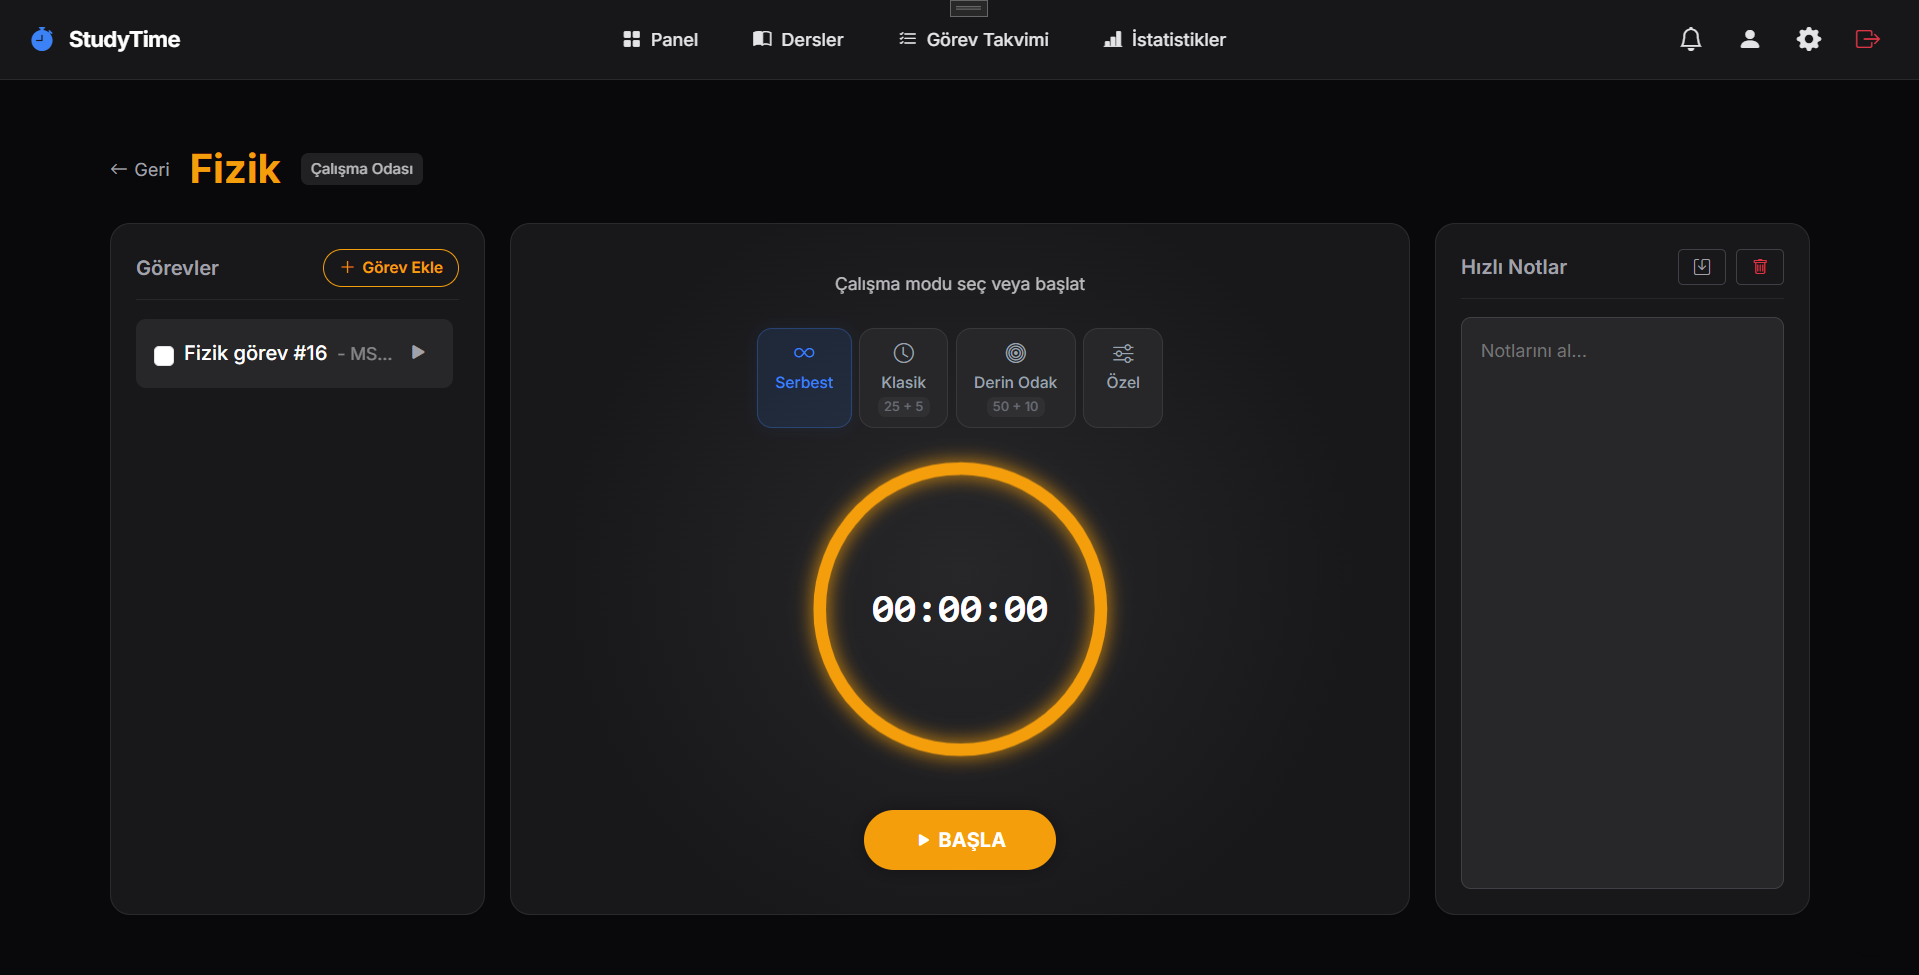
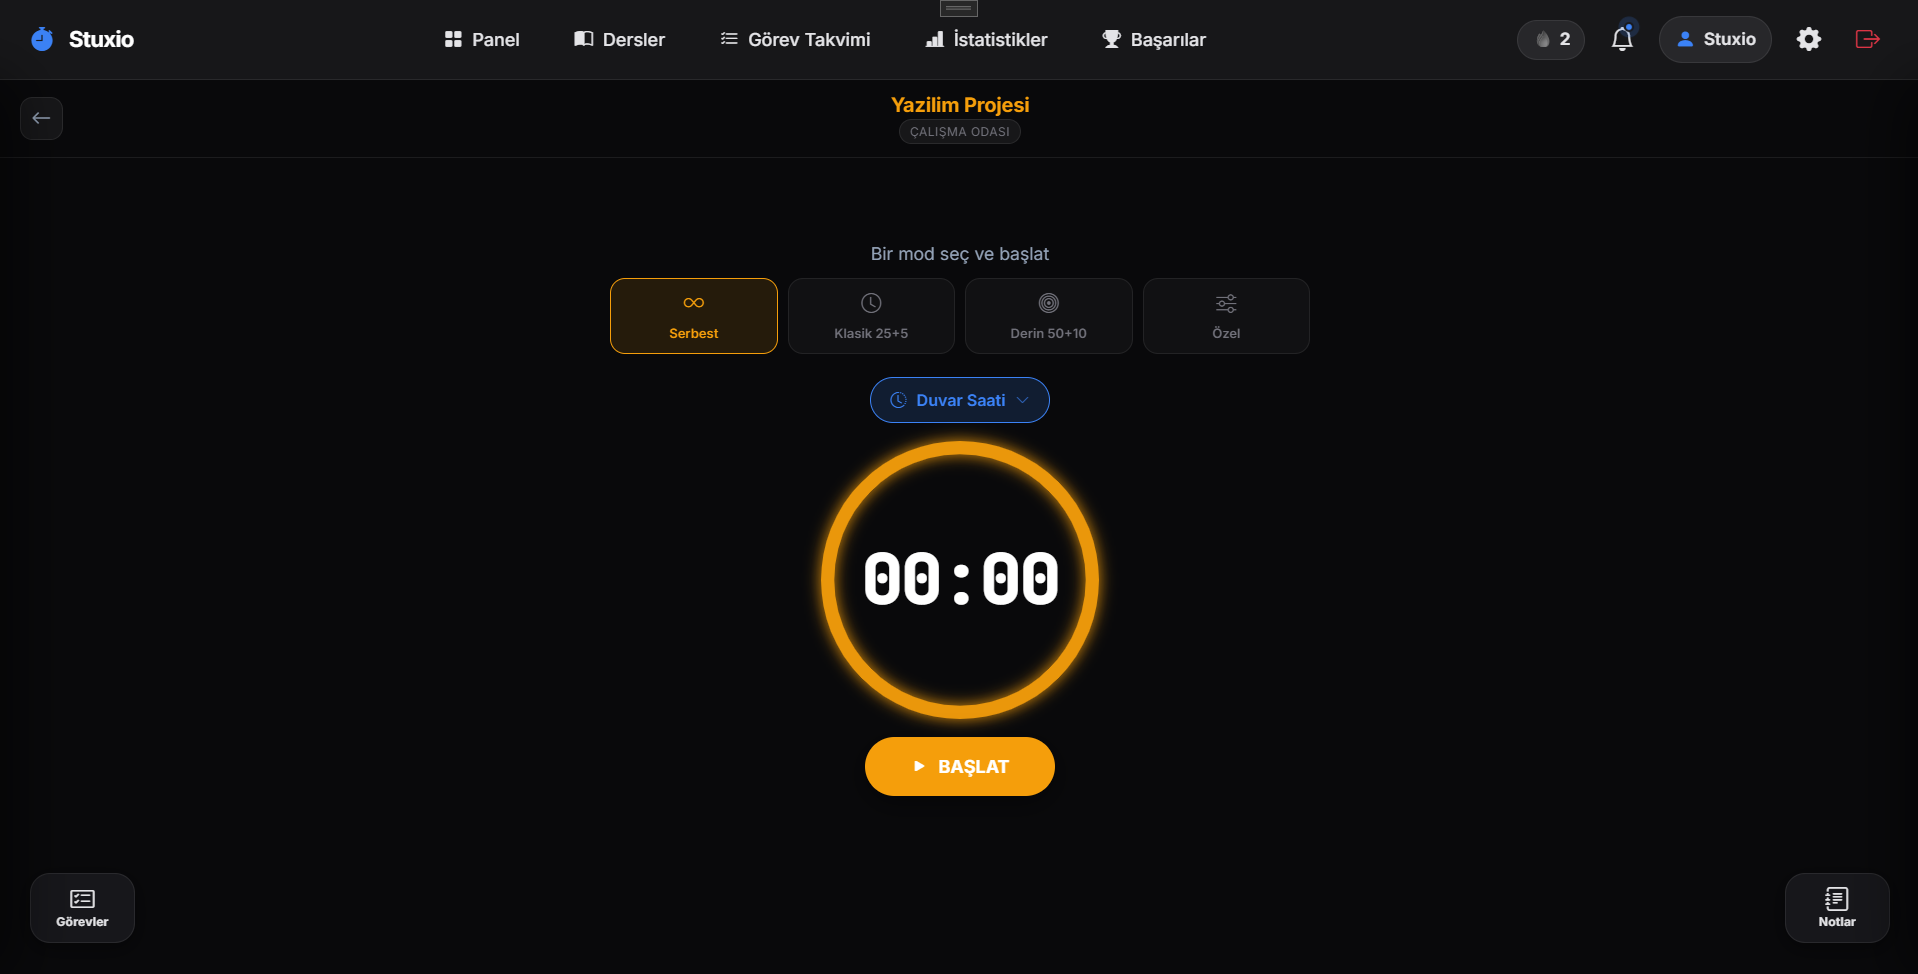
Masaustu bolumu acildi: guncel ekran goruntuleriyle
Dort gorsel 23 Agu 2026 tarihli Windows surumunden geldi ve eski marka donemine
ait olanlarin uzerine yazildi. Kullanilmayan kronometre2.png kaldirildi (eski
dosyalar git gecmisinde duruyor).

  genel_bakis.png  1919x974   Panel / Genel Bakis
  lessons.png      1919x976   Dersler & Alanlar
  kronometre.png   1918x974   Calisma Odasi
  odak_mode.png    1919x986   Odak modu

Dordu de koyu tema ve pencere kaplamasi icermiyor; secim bilincli, karisik tema
izgarada dagimik duruyordu.

Olculdu: iki ld+json blogu gecerli; sayfadaki ON gorselin de bildirilen
width/height degeri gercek olcusuyle birebir esit (CLS yok); dort dosya da
200 + gecerli PNG olarak servis ediliyor; 320 ve 1280px'te yatay kaydirma YOK;
1280'de izgara 2x2 (her gorsel 516x263), 860px altinda tek sutuna iniyor.

screenshotss/OKU-masaustu.md guncellendi: hangi dosya hangi ekran, olculer ve
yenilerken dikkat edilecekler.

diff --git a/index.html b/index.html
@@ -358,27 +358,16 @@
     </div>
   </section>
 
-  <!-- ── 7. MASAÜSTÜ — HAZIR AMA KAPALI ────────────────────────────────
-       Bölümün işaretlemesi ve stili (.shots-grid / .shot, site.css) HAZIR.
-       Yayına alınmadı çünkü `screenshotss/` içindeki masaüstü görüntüleri
-       KULLANILAMAZ durumda (5 Eyl 2026'da tek tek açılıp bakıldı):
+  <!-- ── 7. Masaüstü ──────────────────────────────────────────────────
+       Görseller 23 Ağu 2026 tarihli, GÜNCEL Windows sürümünden (Stuxio markası,
+       üst menü, doğru kart düzeni). 2 Ağustos'takiler eski marka dönemine aitti
+       ("StudyTime") ve bilerek kullanılmadı — bkz. screenshotss/OKU-masaustu.md.
 
-         • lessons.png, kronometre.png, kronometre2.png, odak_mode.png →
-           üst barda uygulamanın ESKİ ADI "StudyTime" yazıyor. Marka değişti.
-         • lessons.png → Türkçe karakterler bozuk: "i? ve ki?isel geli?im s?re?lerin".
-         • genel_bakis.png → üst menü yok; kartlar "Bekleyen"/"Bugün" (artık
-           "Bugün Çalışma"/"Aktif Alan"), "Zaman Takibi" (artık "Verimlilik
-           Analizi"), "Yeni Alan" düğmesi (artık "+").
-         • kronometre.png → üç sütunlu eski düzen; şimdi Görevler/Notlar köşe
-           düğmeleri, "Duvar Saati" seçici var, düğme "BAŞLA" değil "BAŞLAT".
-
-       ⚠ Bunları yayınlamak yanlış ürün göstermek olurdu; mobil görseller
-       (app-*.png) ise GÜNCEL, onlara dokunulmadı.
-
-       AÇMAK İÇİN: aşağıdaki dört dosyayı güncel Windows sürümünden yeniden
-       çekip `screenshotss/` içine aynı adlarla koy, sonra bu yorumu kaldır ve
-       her <img> için gerçek width/height değerlerini yaz (düzen zıplamasın).
-
+       ⚠ Dördü de KOYU tema. Karışık tema ızgarada dağınık durur; yenileyeceksen
+       tek temada kal.
+       ⚠ width/height her görselin GERÇEK ölçüsüdür ve oranları farklıdır. Ortak
+       bir değer vermek düzeni bozar; görsel değişirse bu sayılar da değişmeli
+       (yoksa yüklenirken sayfa zıplar). -->
   <section class="container reveal" id="masaustu">
     <div class="section-head">
       <span class="eyebrow">Masaüstü</span>
@@ -392,28 +381,27 @@
 
     <div class="shots-grid">
       <figure class="shot">
-        <img src="screenshotss/genel_bakis.png" width="1919" height="875" loading="lazy" decoding="async"
-             alt="Stuxio masaüstü genel bakış: verimlilik skoru, görev sayıları, günün çalışma süresi ve haftalık verimlilik grafiği">
+        <img src="screenshotss/genel_bakis.png" width="1919" height="974" loading="lazy" decoding="async"
+             alt="Stuxio masaüstü genel bakış: verimlilik skoru, toplam ve tamamlanan görev, günün çalışma süresi, aktif alan sayısı ve haftalık verimlilik grafiği">
         <figcaption>Genel bakış — günün özeti ve haftalık eğilim</figcaption>
       </figure>
       <figure class="shot">
-        <img src="screenshotss/lessons.png" width="1906" height="981" loading="lazy" decoding="async"
-             alt="Stuxio masaüstü dersler ekranı: alanlar kart olarak listeleniyor">
+        <img src="screenshotss/lessons.png" width="1919" height="976" loading="lazy" decoding="async"
+             alt="Stuxio masaüstü dersler ekranı: İngilizce, Matematik ve Yazılım Projesi alanları kart olarak, her biri kendi rengiyle">
         <figcaption>Dersler ve alanlar — okul, iş ve kişisel gelişim ayrı</figcaption>
       </figure>
       <figure class="shot">
-        <img src="screenshotss/kronometre.png" width="1919" height="975" loading="lazy" decoding="async"
-             alt="Stuxio masaüstü çalışma odası: mod seçimi, kronometre halkası ve başlat düğmesi">
-        <figcaption>Çalışma odası — mod seç ve başla</figcaption>
+        <img src="screenshotss/kronometre.png" width="1918" height="974" loading="lazy" decoding="async"
+             alt="Stuxio masaüstü çalışma odası: Serbest, Klasik 25+5, Derin 50+10 ve Özel mod seçenekleri, kronometre halkası ve başlat düğmesi">
+        <figcaption>Çalışma odası — bir mod seç ve başla</figcaption>
       </figure>
       <figure class="shot">
-        <img src="screenshotss/odak_mode.png" width="1918" height="966" loading="lazy" decoding="async"
-             alt="Stuxio masaüstü odak modu: ekranı kaplayan büyük sayaç ve duraklat/bitir düğmeleri">
+        <img src="screenshotss/odak_mode.png" width="1919" height="986" loading="lazy" decoding="async"
+             alt="Stuxio masaüstü odak modu: ekranı kaplayan büyük sayaç, duraklat ve çalışmayı bitir düğmeleri">
         <figcaption>Odak modu — ekranda sadece süre kalır</figcaption>
       </figure>
     </div>
   </section>
-  -->
 
   <!-- ── 8. Çevrimdışı ────────────────────────────────────────────────── -->
   <section class="container reveal">

diff --git a/screenshotss/OKU-masaustu.md b/screenshotss/OKU-masaustu.md
@@ -1,42 +1,34 @@
-# Masaüstü ekran görüntüleri — güncelleme notu
+# Masaüstü ekran görüntüleri
 
-Sitedeki **masaüstü bölümü yazılı ama kapalı** (`index.html`, "7. MASAÜSTÜ" yorumu).
-Açılması için bu klasörde güncel dört dosya olması gerekiyor.
+Sitedeki masaüstü bölümü (`index.html`, "7. Masaüstü") şu dört dosyayı kullanır:
 
-## Gereken dosyalar
+| Dosya | Ekran | Ölçü |
+|---|---|---|
+| `genel_bakis.png` | Panel / Genel Bakış | 1919×974 |
+| `lessons.png` | Dersler & Alanlar | 1919×976 |
+| `kronometre.png` | Çalışma Odası | 1918×974 |
+| `odak_mode.png` | Odak modu | 1919×986 |
 
-| Dosya adı | Hangi ekran |
-|---|---|
-| `genel_bakis.png` | Panel / Genel Bakış |
-| `lessons.png` | Dersler & Alanlar |
-| `kronometre.png` | Çalışma Odası (mod seçimi + kronometre) |
-| `odak_mode.png` | Odak modu (tam ekran sayaç) |
+**Güncel sürüm: 23 Ağustos 2026**, Windows uygulamasından.
 
-Aynı adlarla üzerine yaz. Sonra `index.html`'deki yorumu kaldır ve her `<img>`
-için gerçek `width`/`height` değerlerini gir (düzen zıplamasın diye).
+## ⚠ Yenilerken
 
-## ⚠ Mevcut dosyalar neden kullanılamıyor
+- **`index.html`'deki `width`/`height` değerlerini de güncelle.** Oranlar farklı;
+  yanlış değer görsel yüklenirken sayfayı zıplatır (CLS).
+- **Tek tema seç** — dördü de koyu. Karışık tema ızgarada dağınık durur.
+- **Pencere kaplamalarını dahil etme**: bildirim balonu, Ekran Alıntısı Aracı
+  penceresi, açık bildirim paneli vb.
+- **Gerçekçi ama temiz veri.** Boş ekran ürünü zayıf gösterir; "Test123" gibi
+  adlar güven vermez.
 
-5 Eylül 2026'da tek tek açılıp bakıldı:
+## Geçmiş
 
-- `lessons.png`, `kronometre.png`, `kronometre2.png`, `odak_mode.png` → üst barda
-  uygulamanın **eski adı "StudyTime"** yazıyor.
-- `lessons.png` → Türkçe karakterler bozuk: "i? ve ki?isel geli?im s?re?lerin".
-- `genel_bakis.png` → eski düzen: üst menü yok, "Zaman Takibi" (artık "Verimlilik
-  Analizi"), "Bekleyen" kartı (artık "Aktif Alan").
-
-Bunları yayınlamak yanlış ürün göstermek olur.
-
-## Çekerken dikkat
-
-- **Tek tema seç.** Site koyu; karışık tema ızgarada dağınık durur.
-- **Pencere kaplamalarını dahil etme** — bildirim balonu, Ekran Alıntısı Aracı
-  penceresi vb. görüntüde kalmasın.
-- **Gerçekçi ama temiz veri**: boş ekran ürünü zayıf gösterir, "Test123" gibi
-  adlar da güven vermez.
-- Genişlik ~1900px yeterli; mevcut dosyalar da o ölçüde.
+2 Ağustos 2026 tarihli ilk masaüstü görselleri **eski marka dönemine aitti** —
+üst barda "StudyTime" yazıyordu, `lessons.png`'de Türkçe karakterler bozuktu ve
+`genel_bakis.png` artık var olmayan bir düzeni ("Zaman Takibi", "Bekleyen" kartı)
+gösteriyordu. 5 Eylül 2026'da hepsi güncelleriyle değiştirildi; kullanılmayan
+`kronometre2.png` kaldırıldı. Eski dosyalar git geçmişinde duruyor.
 
 ## Dokunma
 
-`app-*.png` dosyaları **telefon** görüntüleridir ve GÜNCELDİR (18 Ağu, Stuxio
-markası, doğru kart düzeni). Sitede kullanılıyorlar.
+`app-*.png` dosyaları **telefon** görüntüleridir (18 Ağu) ve günceldir.
